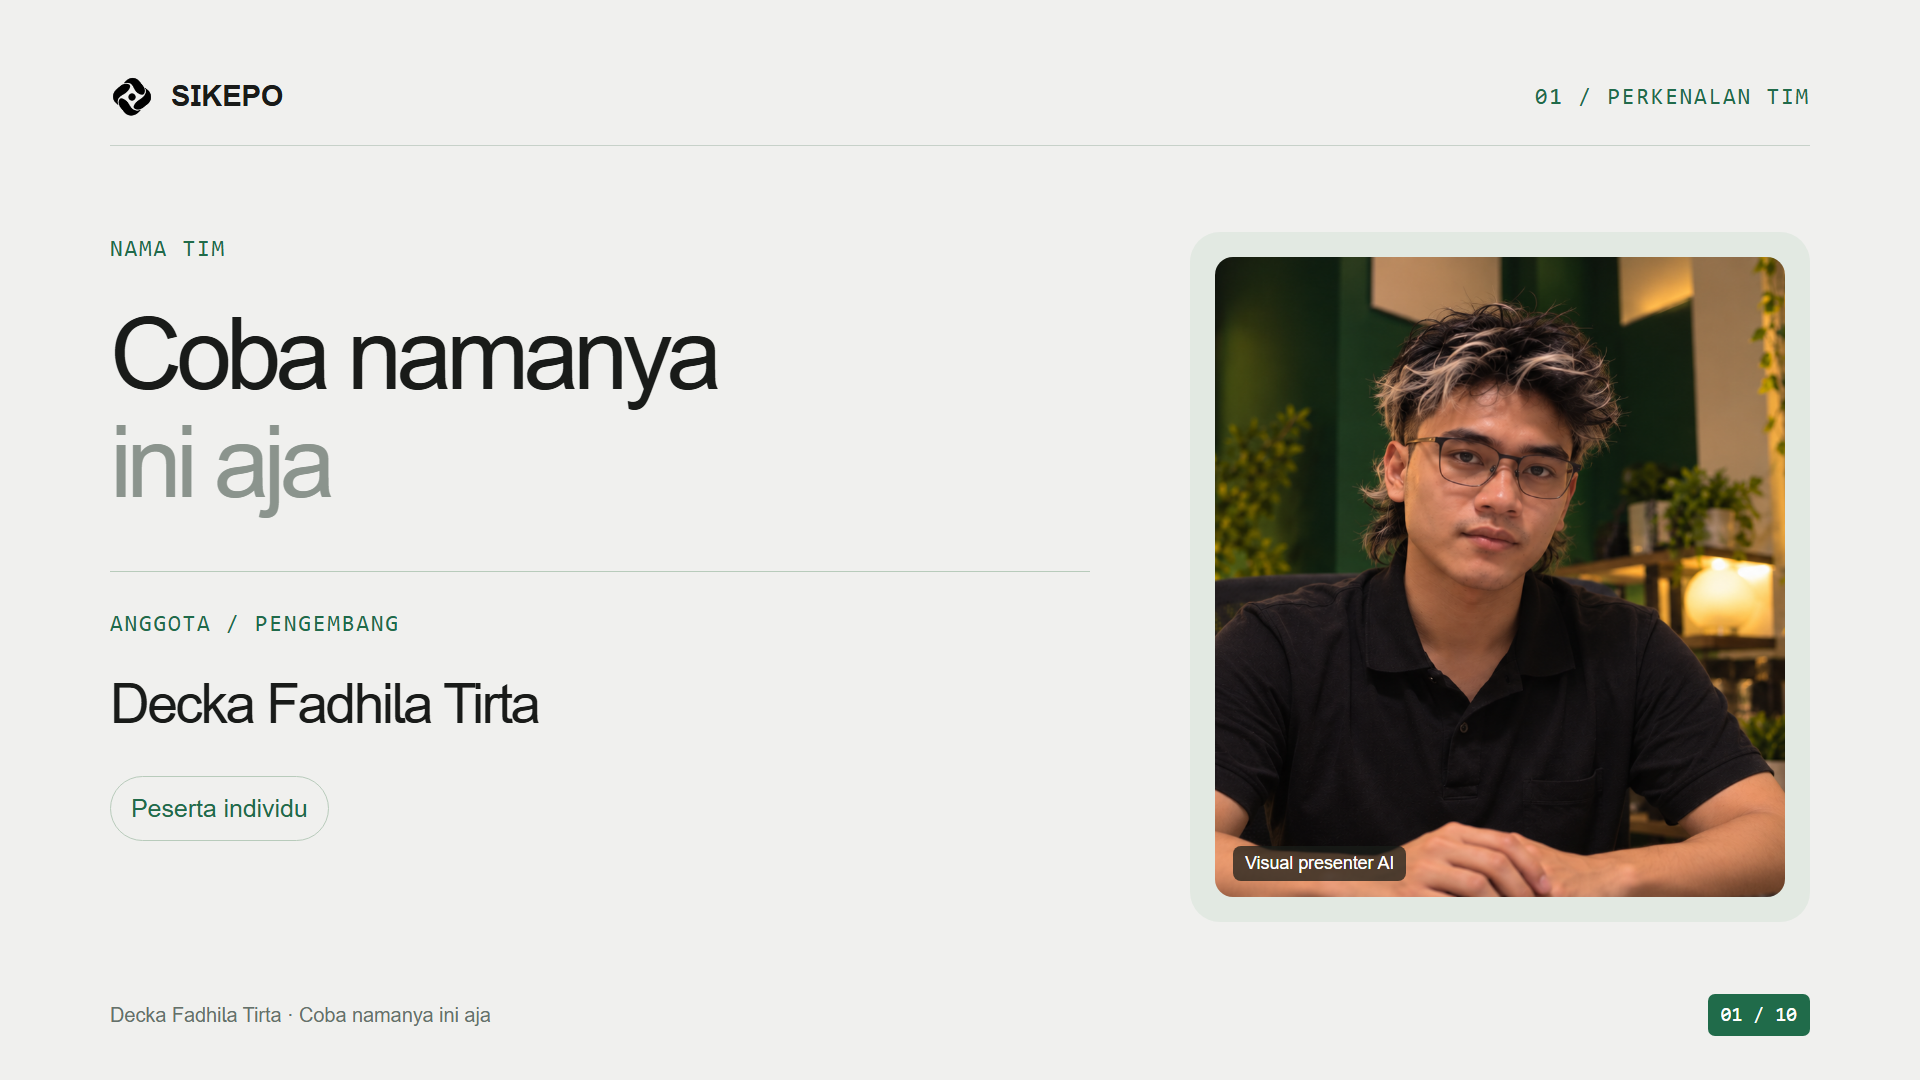
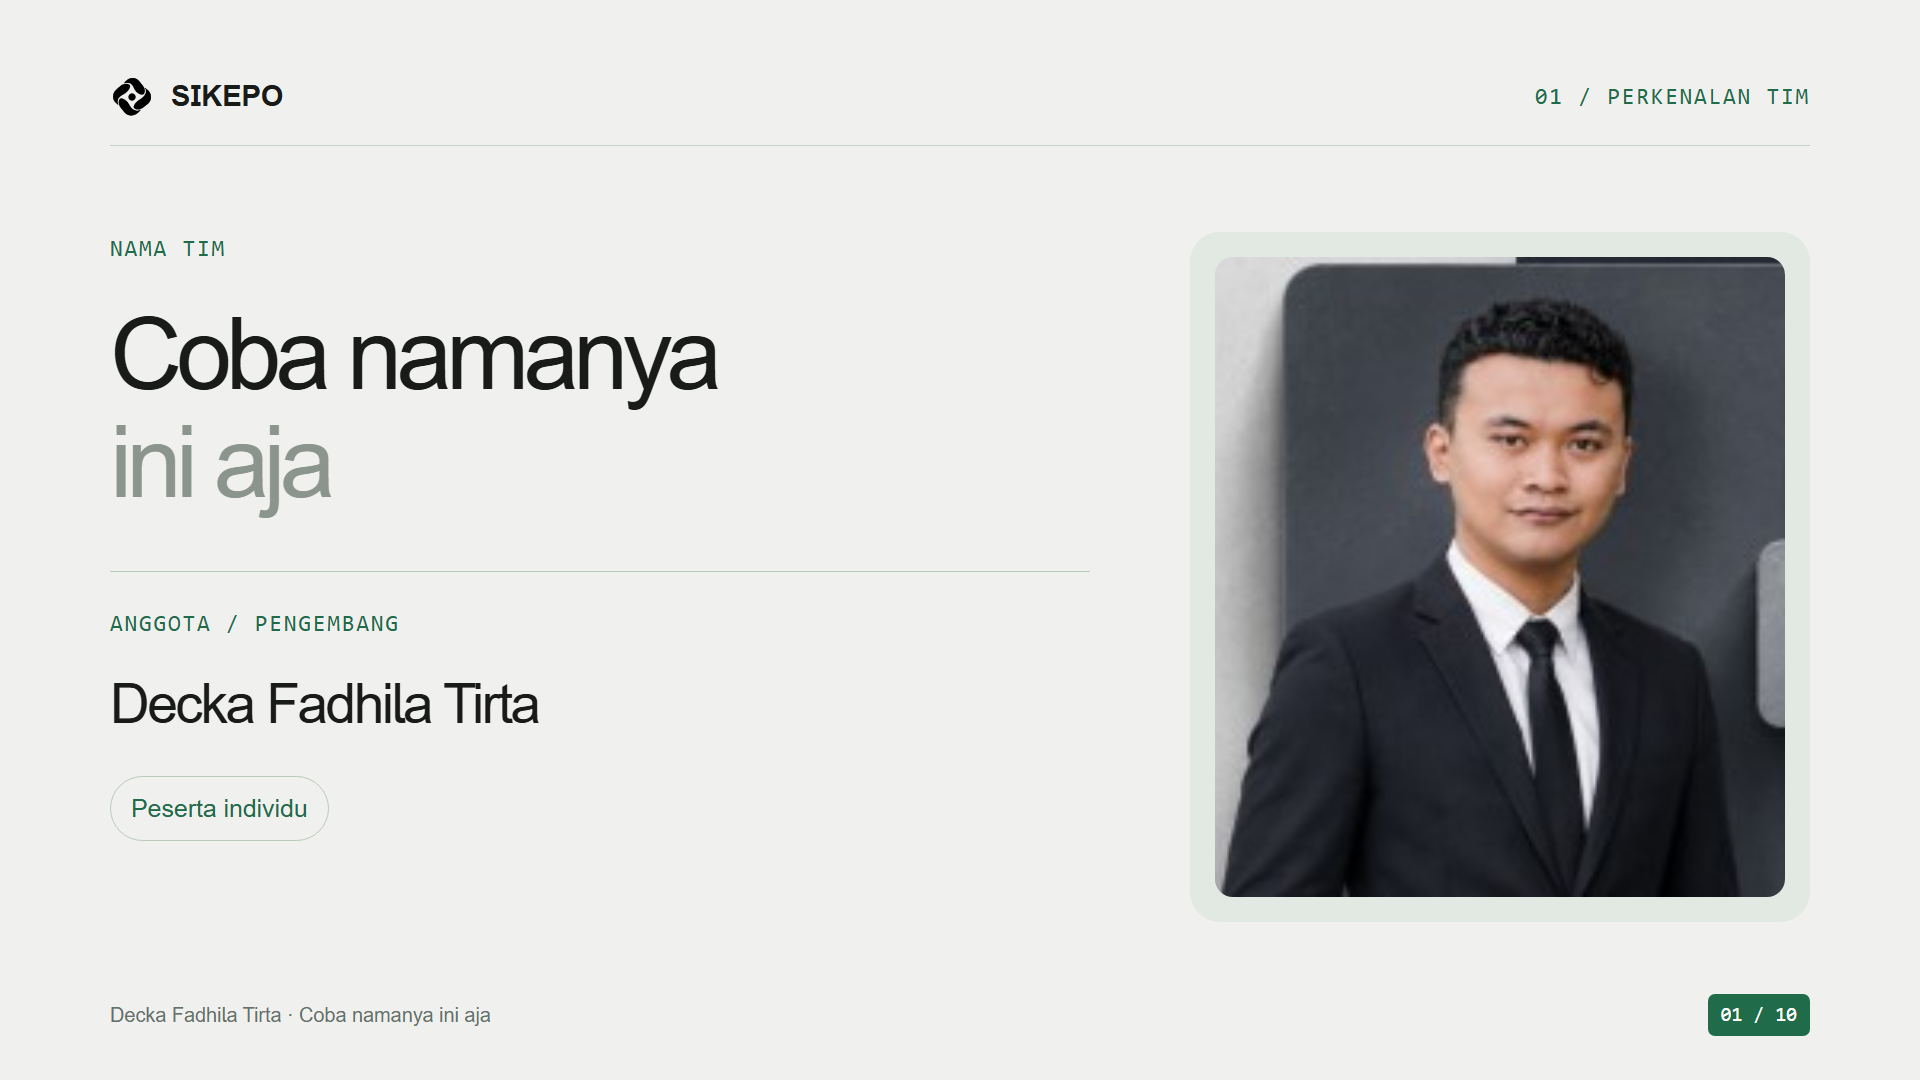
Use supplied opening portrait and remove presenter subtitle in preview

Changed region(s): [[0.625, 0.2139, 0.9375, 0.8556]]

diff --git a/slides/sikepo-pitch/index.tsx b/slides/sikepo-pitch/index.tsx
@@ -1,4 +1,5 @@
 import React from 'react';
+import deckaPhoto from './assets/decka-photo.png';
 import {ImagePlaceholder,useSlidePageNumber} from '@open-slide/core';
 import type {Page,SlideMeta,DesignSystem,SlideTransition} from '@open-slide/core';
 import hero from './assets/hero.png';
@@ -22,7 +23,7 @@ function Header({section,light=false}:{section:string,light?:boolean}){return <h
 function Footer({light=false}:{light?:boolean}){const {current,total}=useSlidePageNumber();return <footer style={{position:'absolute',left:110,right:110,bottom:44,display:'flex',justifyContent:'space-between',alignItems:'center',fontSize:20,color:light?'#b9cfc0':muted}}><span>Decka Fadhila Tirta · Coba namanya ini aja</span><span style={{padding:'6px 13px',borderRadius:7,background:'#206b4a',color:'#fff',fontFamily:'monospace'}}>{String(current).padStart(2,'0')} / {String(total).padStart(2,'0')}</span></footer>}
 function Pill({children,light=false}:{children:React.ReactNode,light?:boolean}){return <span style={{display:'inline-block',fontSize:25,padding:'13px 20px',border:`1px solid ${light?'#5f806b':'#b8cbbb'}`,borderRadius:100,color:light?'#c6dfce':green}}>{children}</span>}
 
-const Team:Page=()=> <div style={root}><Header section="01 / Perkenalan tim"/><div style={{display:'grid',gridTemplateColumns:'980px 620px',gap:100,marginTop:110}}><div><p style={{...label,color:green}}>Nama tim</p><h1 style={{fontSize:100,fontWeight:500,lineHeight:1.08,letterSpacing:'-.06em',margin:'33px 0 55px'}}>Coba namanya<br/><span style={{color:'#8b948d'}}>ini aja</span></h1><div style={{borderTop:'1px solid #b8cbbb',paddingTop:35}}><p style={{...label,color:green}}>Anggota / pengembang</p><h2 style={{fontSize:55,letterSpacing:'-.045em',fontWeight:500,margin:'22px 0 30px'}}>Decka Fadhila Tirta</h2><Pill>Peserta individu</Pill></div></div><div style={{background:'#e2e9e2',padding:25,borderRadius:30,boxSizing:'border-box',height:690}}><ImagePlaceholder hint="Foto asli Decka Fadhila Tirta, satu-satunya anggota tim" width={570} height={640}/></div></div><Footer/></div>;
+const Team:Page=()=> <div style={root}><Header section="01 / Perkenalan tim"/><div style={{display:'grid',gridTemplateColumns:'980px 620px',gap:100,marginTop:110}}><div><p style={{...label,color:green}}>Nama tim</p><h1 style={{fontSize:100,fontWeight:500,lineHeight:1.08,letterSpacing:'-.06em',margin:'33px 0 55px'}}>Coba namanya<br/><span style={{color:'#8b948d'}}>ini aja</span></h1><div style={{borderTop:'1px solid #b8cbbb',paddingTop:35}}><p style={{...label,color:green}}>Anggota / pengembang</p><h2 style={{fontSize:55,letterSpacing:'-.045em',fontWeight:500,margin:'22px 0 30px'}}>Decka Fadhila Tirta</h2><Pill>Peserta individu</Pill></div></div><div style={{background:'#e2e9e2',padding:25,borderRadius:30,boxSizing:'border-box',height:690}}><img src={deckaPhoto} alt="Decka Fadhila Tirta" style={{width:570,height:640,objectFit:"cover",objectPosition:"50% center",borderRadius:18}}/></div></div><Footer/></div>;
 
 function Aim({no,heading,body}:{no:string,heading:string,body:string}){return <div style={{width:540,boxSizing:'border-box',padding:'30px 32px',height:255,borderTop:'2px solid #206b4a',background:'#fff',borderRadius:'0 0 22px 22px'}}><span style={{...label,color:green}}>{no}</span><h3 style={{fontSize:34,fontWeight:500,letterSpacing:'-.035em',margin:'18px 0 15px'}}>{heading}</h3><p style={{...text,fontSize:28}}>{body}</p></div>}
 const Idea:Page=()=> <div style={root}><Header section="02 / Ide, deskripsi & tujuan"/><div style={{marginTop:83}}><p style={{...label,color:green}}>Nama proyek</p><h2 style={{...title,fontSize:73,maxWidth:1650,marginTop:24}}>SiKePo: Sistem Investigasi Kelayakan Klaim<br/>dan Pola Overbilling berbasis AI</h2><p style={{...text,maxWidth:1510,marginTop:38}}>Aplikasi pemeriksaan klaim sebelum pencairan menggunakan aturan, deteksi anomali, dan penjelasan NALAR.</p></div><div style={{position:'absolute',left:110,top:665}}><p style={{...label,color:green,marginBottom:22}}>Tujuan</p><div style={{display:'flex',gap:40}}><Aim no="01" heading="Prioritas pemeriksaan" body="Memilah klaim yang membutuhkan review."/><Aim no="02" heading="Penelusuran temuan" body="Mencocokkan biaya, layanan, dan bukti."/><Aim no="03" heading="Dasar keputusan" body="Menyediakan penjelasan bagi verifikator."/></div></div><Footer/></div>;

diff --git a/videos/sikepo-demo/presentation-film/index.html b/videos/sikepo-demo/presentation-film/index.html
@@ -28,7 +28,7 @@
 <video data-hf-id="hf-x7ie" id="presenter-1" class="clip face" data-start="157.648938" data-duration="86.633333" data-track-index="3" src="assets/02-demo.mp4" data-has-audio="true" playsinline></video>
 <video data-hf-id="hf-c0ar" id="presenter-2" class="clip face" data-start="244.28227099999998" data-duration="172.930563" data-track-index="3" src="assets/03-after-demo.mp4" data-has-audio="true" playsinline></video>
 <div data-hf-id="hf-rnwb" id="brand" class="clip brand" data-start="0" data-duration="417.212834" data-track-index="4"><img data-hf-id="hf-r1im" src="assets/logo.png">SIKEPO</div>
-<div data-hf-id="hf-o94b" id="name" class="clip name" data-start="0" data-duration="417.212834" data-track-index="4">Decka Fadhila Tirta<br data-hf-id="hf-x5px"><span data-hf-id="hf-2kpj" style="color:#9bb4a4;font-size:11px">Presenter AI · narasi presentasi</span></div>
+<div data-hf-id="hf-o94b" id="name" class="clip name" data-start="0" data-duration="417.212834" data-track-index="4">Decka Fadhila Tirta</div>
 <div data-hf-id="hf-8tzo" id="progress" class="clip progress" data-start="0" data-duration="417.212834" data-track-index="4"><div data-hf-id="hf-c4bu" id="progress-fill"></div></div>
 <div data-hf-id="hf-modm" id="credit" class="clip credit" data-start="0" data-duration="417.212834" data-track-index="4">Coba namanya ini aja · SiKePo: investigasi kelayakan klaim dan pola overbilling berbasis AI</div>
 </div><script>window.__timelines=window.__timelines||{};const tl=gsap.timeline({paused:true});tl.fromTo('#progress-fill',{scaleX:0},{scaleX:1,duration:417.212834,ease:'none'},0);

diff --git a/videos/sikepo-demo/build_presentation_film.py b/videos/sikepo-demo/build_presentation_film.py
@@ -26,10 +26,6 @@ with sync_playwright() as p:
   page.wait_for_timeout(700)
   page.evaluate('document.fonts.ready')
   canvas=page.locator('[data-osd-canvas="true"]')
-  if number==1:
-   # Replace the empty photo placeholder only in the captured video edition.
-   canvas.evaluate('''(el,src)=>{const leaf=[...el.querySelectorAll('*')].find(e=>e.children.length===0&&e.textContent.includes('Foto asli Decka'));if(leaf){let box=leaf;while(box.parentElement&&box.getBoundingClientRect().width<500)box=box.parentElement;box.innerHTML='';box.style.cssText='width:570px;height:640px;position:relative;overflow:hidden;border-radius:18px';const img=new Image();img.src=src;img.style.cssText='width:100%;height:100%;object-fit:cover;object-position:50% 35%';box.append(img);const tag=document.createElement('span');tag.textContent='Visual presenter AI';tag.style.cssText='position:absolute;bottom:16px;left:18px;font:18px Arial;color:white;background:#181c19bb;padding:7px 12px;border-radius:8px';box.append(tag)}}''',neutral)
-   page.wait_for_timeout(200)
   canvas.screenshot(path=str(ASSETS/f'slide-{number:02}.png'))
   print(f'Captured slide {number}',flush=True)
   if number<10: page.keyboard.press('ArrowRight')
@@ -56,7 +52,7 @@ html='''<!doctype html><html lang="id"><head><meta charset="utf-8"><script src="
 </style></head><body><div id="root" data-composition-id="main" data-start="0" data-duration="TOTAL" data-width="1280" data-height="720">
 CONTENT
 <div id="brand" class="clip brand" data-start="0" data-duration="TOTAL" data-track-index="4"><img src="assets/logo.png">SIKEPO</div>
-<div id="name" class="clip name" data-start="0" data-duration="TOTAL" data-track-index="4">Decka Fadhila Tirta<br><span style="color:#9bb4a4;font-size:11px">Presenter AI · narasi presentasi</span></div>
+<div id="name" class="clip name" data-start="0" data-duration="TOTAL" data-track-index="4">Decka Fadhila Tirta</div>
 <div id="progress" class="clip progress" data-start="0" data-duration="TOTAL" data-track-index="4"><div id="progress-fill"></div></div>
 <div id="credit" class="clip credit" data-start="0" data-duration="TOTAL" data-track-index="4">Coba namanya ini aja · SiKePo: investigasi kelayakan klaim dan pola overbilling berbasis AI</div>
 </div><script>window.__timelines=window.__timelines||{};const tl=gsap.timeline({paused:true});tl.fromTo('#progress-fill',{scaleX:0},{scaleX:1,duration:TOTAL,ease:'none'},0);

diff --git a/videos/sikepo-demo/render_presentation_local.py b/videos/sikepo-demo/render_presentation_local.py
@@ -33,7 +33,6 @@ for item,title in zip(timing['slides'],titles):
  lines.append(line)
  d.multiline_text((1072,157),'\n'.join(lines),font=font(19),fill='#f0f0ee',spacing=7)
  d.text((1072,652),'Decka Fadhila Tirta',font=font(13),fill='#d3dfd6')
- d.text((1072,673),'Presenter AI · narasi presentasi',font=font(10),fill='#9bb4a4')
  d.text((16,668),'Coba namanya ini aja · SiKePo: investigasi kelayakan klaim dan pola overbilling berbasis AI',font=font(12),fill='#a9bdb0')
  d.line((16,648,1056,648),fill='#3d5445',width=2)
  bg.save(WORK/f'{n:02}.png')
